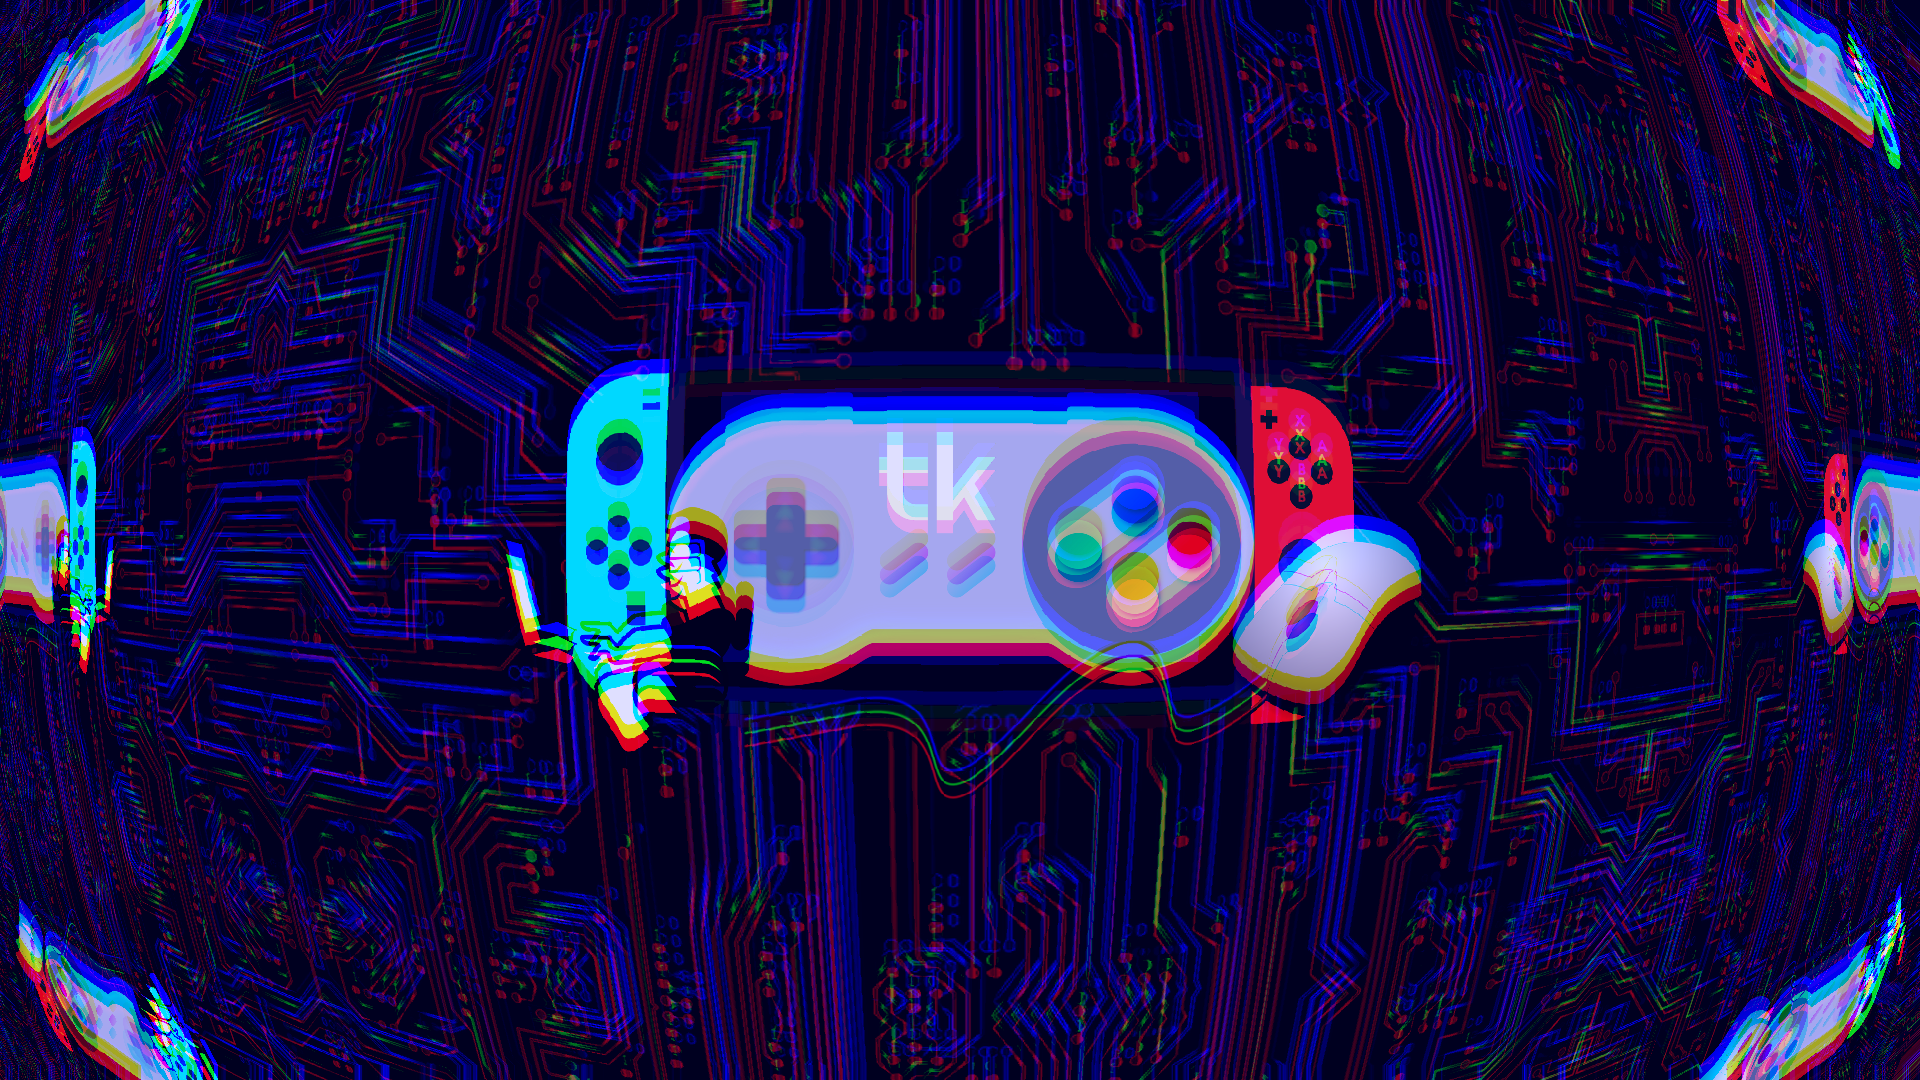
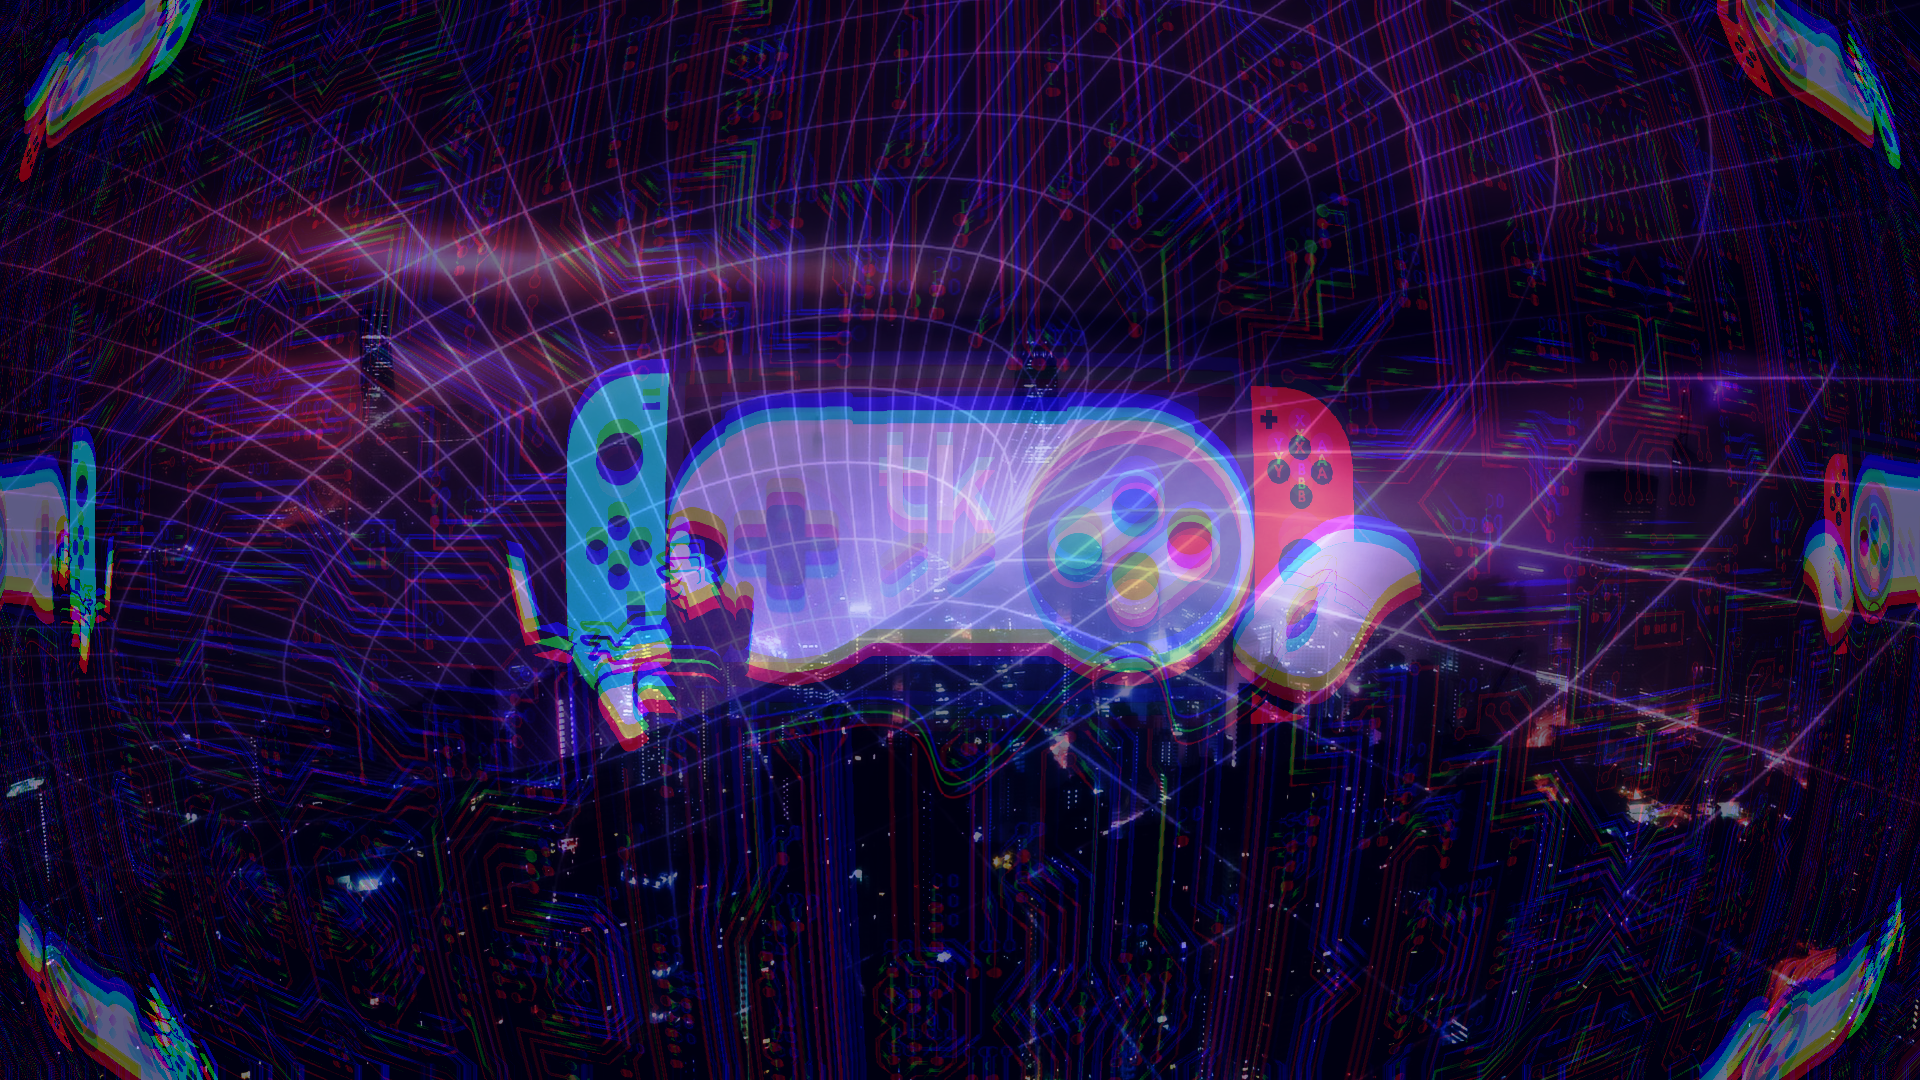
minor updates

diff --git a/index.html b/index.html
@@ -40,7 +40,7 @@
 	<img id="logo" src="tk_left.png" width="160" height="90">
 
 	<!--h1 tags | page marker-->
-	<a style= "text-decoration: none;" href="https://www.youtube.com/c/tekoii?sub_confirmation=1">
+	<a style= "text-decoration: none;" href="https://www.youtube.com/c/tekoii">
 	<h1 id="in_head">tekoii</h1>
 	</a>
 
@@ -56,33 +56,42 @@
 
 	<!--Text-->
 	<div class="paragraph">
-		<span style= "color: #FFFF8A;";>Welcome</span> 
+		<span style= "color: #FFFF8A;">Welcome</span> 
 		<span> to </span> 
-		<span style= "color: #FFFF8A"> tekoii.com</span> 
+		<span style= "color: #FFFF8A;"> tekoii.com</span> 
 		<span>!</span>
 
 	<br><br>
 
-		<span>I make content on</span> 
-		<span>youtube</span>
+		<span>I</span> 
+		<span style="color: #0476D0;">make</span>
+		<span style="color: #FFFF8A;">content</span> 
+		<span>for</span> 
+		<span style="color: red;">Youtube</span>
 		<span> and </span>
-		<span>deviant art</span> 
+		<span style="color: #77DD77;">Deviant Art</span> 
 		<span>.</span>
 
 	<br><br>
 
 		<span>I</span>
-		<span> livestream </span>
-		<span>games</span>
+		<span style="color: #FFFF8A;"> livestream </span>
+		<span style="color: #77DD77;">games</span>
 		<span> for </span> 
-		<span>Switch</span>
+		<span style="color: red;">Switch</span>
 		<span> and </span>
-		<span>PC</span>
+		<span style="color: #0476D0;">PC</span>
 		<span>.</span>
+
+		<br><br>
+
+		<span style="color: #FFFF8A;">Thank you</span> 
+    	<span>so much for your support!</span>
+    	&#128155;
+
 
 	</div>
 
-	<br><br>
 
 </body>
 </html>

diff --git a/youtube.html b/youtube.html
@@ -29,7 +29,7 @@
   <img id="logo" src="tk_left.png" width="160" height="90">
 
 	<!--h1 tags | page marker-->
-	<a style= "text-decoration: none;" href="https://www.youtube.com/c/tekoii?sub_confirmation=1">
+	<a style= "text-decoration: none;" href="https://www.youtube.com/c/tekoii">
 	<h1 id="yt_head">Youtube</h1>
 	</a>
 	
@@ -46,25 +46,29 @@
 	
   <!--Text-->
   <div class="paragraph">
-  <span>Subscribe</span> 
+  <span style="color: red;">Subscribe</span> 
   <span>to my</span>
   <a id="yt_link" href=https://www.deviantart.com/tekoiiyt>Youtube</a>
-  <span> channel.</span>
+  <span> channel.</span><br>
+  <span> I have a variety of content such as:</span><br>
   <br>
-  <span>- Livestreams at random between 4pm-11pm EDT.</span>
+  <span>- Livestreams</span><br>
+  <span>- Creative Videos</span><br>
+  <span>- Top 5's</span>
 
   <br><br>
 
-  <span>By subscribing, you you help push our channel ever further.</span>
+  <span>By subscribing, you help push our channel ever further.</span>
 
   <br><br>
 
-  <span>Thank you so much for your support!</span>
+    <span style="color: red">Thank you</span> 
+    <span>so much for your support!</span>
     &#10084;&#65039;
 
   <br><br>
 
-  <span>In the future, I plan to make: Top 5 / Top 10 Videos, Reviews, and other fun videos.</span>
+  
 
 </body>
 </html>

diff --git a/deviantart.html b/deviantart.html
@@ -46,17 +46,19 @@
 
 	<!--Text-->
   <div class="paragraph">
-	<span>Watch</span> 
-  <span>me on</span>
+	<span style="color: #77DD77">Watch</span> 
+    <span>me on</span>
 	<a id="da_link" href=https://www.deviantart.com/tekoiiyt>deviant art</a>
-	<span>.</span> 
-	<span>I make digital art,</span> 
-  <span>digital drawings</span> 
-  <span>to</span> 
-  <span>animated box-arts</span>
-  <span>.</span>
+	<span>.</span> <br>
+	<span>I make </span> 
+    <span class="">a variety of digital art:</span> <br><br>
+    <span>- Digital Drawings</span>  <br>
+    <span>- Animated Box-Arts</span><br><br>
 
-  
+
+  <span style="color: #77DD77">Thank you</span> 
+    <span>so much for your support!</span>
+    &#128154;
 
 </body>
 </html>

diff --git a/styles.css b/styles.css
@@ -11,21 +11,21 @@ body {
 /*backgrounds*/
 .bg_tk {
 	color: white;
-	background-color: #827500;
+	background: url("tekoii_banner.png");
   background-size: cover;
   font-family: Righteous;
 }
 .bg_yt {
 	color: white;
 	background-color: #ff8585;
-	background-image: no-repeat;
+	background: url("mario.png") repeat-y;
     background-size: cover;
     font-family: Righteous;
 }
 .bg_da {
 	color: white;
 	background-color: #5abf64;
-	background-image: no-repeat;
+	background: url("luigi_art.png") repeat-y;
     background-size: cover;
     font-family: Righteous;
 }
